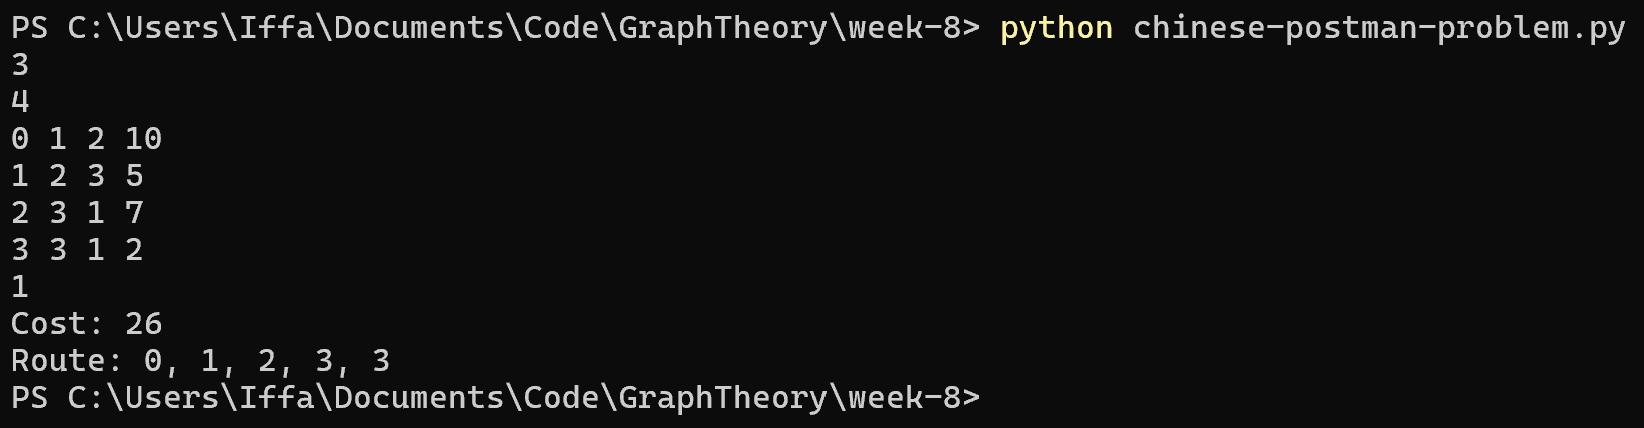
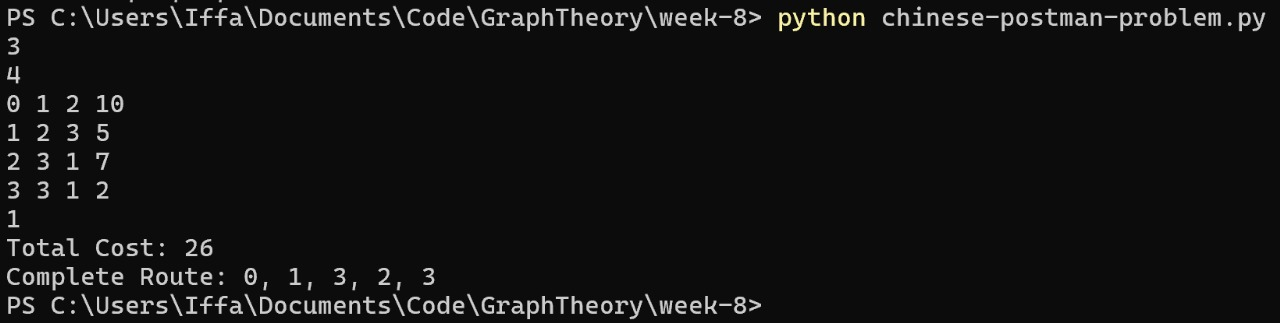
fix: cpp & docs: change algorithm in cpp

diff --git a/chinese-postman-problem.py b/chinese-postman-problem.py
@@ -1,22 +1,36 @@
-from collections import defaultdict, deque
-from itertools import combinations
-import sys
+from collections import defaultdict
+import heapq
 
 class ChinesePostman:
     def __init__(self):
-        self.graph = defaultdict(list)  
-        self.edges = []  
-        self.nodes = set()  
+        self.graph = defaultdict(list)
+        self.edges = {}  
+        self.nodes = set()
+
     def add_edge(self, edge_id, u, v, weight):
-        self.edges.append((edge_id, u, v, weight))
-        self.graph[u].append((v, weight, edge_id))
-        self.graph[v].append((u, weight, edge_id))
+        existing_edges = [(neighbor, w, eid) for neighbor, w, eid in self.graph[u] if neighbor == v and w > weight]
+        if existing_edges:
+            old_eid = existing_edges[0][2]
+            old_weight = existing_edges[0][1]
+            self.graph[u] = [(n, w, e) for n, w, e in self.graph[u] if e != old_eid]
+            self.graph[v] = [(n, w, e) for n, w, e in self.graph[v] if e != old_eid]
+            del self.edges[old_eid]
+            self.edges[edge_id] = (u, v, weight)
+            self.graph[u].append((v, weight, edge_id))
+            self.graph[v].append((u, weight, edge_id))
+            self.edges[old_eid] = (u, v, old_weight)
+            self.graph[u].append((v, old_weight, old_eid))
+            self.graph[v].append((u, old_weight, old_eid))
+        else:
+            self.edges[edge_id] = (u, v, weight)
+            self.graph[u].append((v, weight, edge_id))
+            self.graph[v].append((u, weight, edge_id))
         self.nodes.add(u)
         self.nodes.add(v)
-    
+
     def get_degrees(self):
         degrees = {}
-        for node in self.graph:
+        for node in self.nodes:
             degrees[node] = len(self.graph[node])
         return degrees
     
@@ -25,124 +39,83 @@ class ChinesePostman:
         odd_vertices = [node for node in self.nodes if degrees[node] % 2 == 1]
         return odd_vertices
     
-    def find_shortest_paths(self):
-        INF = float('inf')
-        nodes_list = list(self.nodes)
-        dist = defaultdict(lambda: defaultdict(lambda: INF))
-        next_node = defaultdict(lambda: defaultdict(lambda: None))
-        for node in nodes_list:
-            dist[node][node] = 0
-        for node in nodes_list:
-            for neighbor, weight, _ in self.graph[node]:
-                if weight < dist[node][neighbor]:
-                    dist[node][neighbor] = weight
-                    next_node[node][neighbor] = neighbor
-        for k in nodes_list:
-            for i in nodes_list:
-                for j in nodes_list:
-                    if dist[i][k] + dist[k][j] < dist[i][j]:
-                        dist[i][j] = dist[i][k] + dist[k][j]
-                        next_node[i][j] = next_node[i][k]
-        return dist, next_node
+    def dijkstra(self, start, end):
+        distances = {node: float('inf') for node in self.nodes}
+        distances[start] = 0
+        predecessors = {node: None for node in self.nodes}
+        edge_used = {}
+        pq = [(0, start)]
+        while pq:
+            current_dist, current = heapq.heappop(pq)
+            if current_dist > distances[current]:
+                continue
+            for neighbor, weight, edge_id in self.graph[current]:
+                new_dist = current_dist + weight
+                if new_dist < distances[neighbor]:
+                    distances[neighbor] = new_dist
+                    predecessors[neighbor] = current
+                    edge_used[neighbor] = edge_id
+                    heapq.heappush(pq, (new_dist, neighbor))
+        path = []
+        current = end
+        while predecessors[current] is not None:
+            path.append(edge_used[current])
+            current = predecessors[current]
+        return distances[end], path[::-1]
 
-    def find_min_weight_matching(self, odd_vertices, dist):
+    def find_min_weight_matching(self, odd_vertices):
         if len(odd_vertices) == 0:
             return []
-        min_cost = float('inf')
-        best_matching = None
-        def generate_pairings(vertices):
-            if len(vertices) == 0:
-                return [[]]
-            if len(vertices) == 2:
-                return [[(vertices[0], vertices[1])]]
-            first = vertices[0]
-            rest = vertices[1:]
-            pairings = []
-            for i, partner in enumerate(rest):
-                pair = (first, partner)
-                remaining = rest[:i] + rest[i+1:]
-                for sub_pairing in generate_pairings(remaining):
-                    pairings.append([pair] + sub_pairing)
-            return pairings
-        all_pairings = generate_pairings(odd_vertices)
-        for pairing in all_pairings:
-            cost = sum(dist[u][v] for u, v in pairing)
-            if cost < min_cost:
-                min_cost = cost
-                best_matching = pairing
-        return best_matching
-
-    def get_path_edges(self, u, v, next_node):
-        if next_node[u][v] is None:
-            return []
-        path = []
-        current = u
-        while current != v:
-            next_vertex = next_node[current][v]
-            best_eid = None
-            best_weight = float('inf')
-            for neighbor, weight, eid in self.graph[current]:
-                if neighbor == next_vertex and weight < best_weight:
-                    best_weight = weight
-                    best_eid = eid
-            path.append(best_eid)
-            current = next_vertex
-        return path
-
-    def build_adjacency_matrix(self):
-        adj_matrix = defaultdict(lambda: defaultdict(list))
-        for node in self.graph:
-            for neighbor, weight, eid in self.graph[node]:
-                adj_matrix[node][neighbor].append(eid)
-        for node in adj_matrix:
-            for neighbor in adj_matrix[node]:
-                adj_matrix[node][neighbor].sort()
-        return adj_matrix
+        pairings = {}
+        for i in range(len(odd_vertices)):
+            for j in range(i + 1, len(odd_vertices)):
+                u, v = odd_vertices[i], odd_vertices[j]
+                dist, path = self.dijkstra(u, v)
+                pairings[(u, v)] = (dist, path)
+        remaining = odd_vertices[:]
+        matching = []
+        total_cost = 0
+        matched_paths = []
+        while remaining:
+            current = remaining.pop(0)
+            best_match = min(remaining, key=lambda v: pairings.get((min(current, v), max(current, v)), (float('inf'), []))[0])
+            remaining.remove(best_match)
+            key = (min(current, best_match), max(current, best_match))
+            cost, path = pairings[key]
+            matching.append((current, best_match))
+            total_cost += cost
+            matched_paths.extend(path)
+        return matching, matched_paths, total_cost
 
     def find_eulerian_circuit(self, adj_matrix, start):
         circuit = []
         stack = [start]
-        current_path = []
+        visited_edges = set()
         while stack:
             v = stack[-1]
             found = False
             for u in sorted(adj_matrix[v].keys()):
-                if adj_matrix[v][u]:
-                    eid = adj_matrix[v][u].pop(0)
-                    if eid in adj_matrix[u][v]:
-                        adj_matrix[u][v].remove(eid)
-                    current_path.append(eid)
+                available = [eid for eid in adj_matrix[v][u] if eid not in visited_edges]
+                if available:
+                    best_eid = min(available, key=lambda e: self.edges[e][2])
+                    visited_edges.add(best_eid)
                     stack.append(u)
+                    circuit.append(best_eid)
                     found = True
                     break
             if not found:
-                if current_path:
-                    circuit.append(current_path.pop())
                 stack.pop()
         return circuit[::-1]
 
     def solve(self, start):
-        total_cost = sum(w for _, _, _, w in self.edges)
+        total_cost = sum(weight for _, _, weight in self.edges.values())
         odd_vertices = self.find_odd_vertices()
-        adj_matrix = self.build_adjacency_matrix()
         duplicate_cost = 0
+        matched_paths = []
         if len(odd_vertices) > 0:
-            dist, next_node = self.find_shortest_paths()
-            matching = self.find_min_weight_matching(odd_vertices, dist)
-            for u, v in matching:
-                duplicate_cost += dist[u][v]
-                path_edges = self.get_path_edges(u, v, next_node)
-                for eid in path_edges:
-                    for edge_id, node_u, node_v, weight in self.edges:
-                        if edge_id == eid:
-                            adj_matrix[node_u][node_v].append(eid)
-                            adj_matrix[node_v][node_u].append(eid)
-                            break
-            for node in adj_matrix:
-                for neighbor in adj_matrix[node]:
-                    adj_matrix[node][neighbor].sort()
-        circuit = self.find_eulerian_circuit(adj_matrix, start)
-        return total_cost + duplicate_cost, circuit
+            matching, matched_paths, duplicate_cost = self.find_min_weight_matching(odd_vertices)
+        route = list(self.edges.keys()) + matched_paths
+        return total_cost + duplicate_cost, route
 
 def main():
     n = int(input())
@@ -153,8 +126,8 @@ def main():
         cpp.add_edge(eid, u, v, w)
     start = int(input())
     cost, route = cpp.solve(start)
-    print(f"Cost: {cost}")
-    print(f"Route: {', '.join(map(str, route))}")
+    print(f"Total Cost: {cost}")
+    print(f"Complete Route: {', '.join(map(str, route))}")
 
 if __name__ == "__main__":
     main()

diff --git a/README.md b/README.md
@@ -82,7 +82,7 @@ Here is an example of a successful Knight's Tour on an 8x8 board:
 
 The **Chinese Postman Problem (CPP)** aims to find the shortest possible route that a postman must take to traverse every street (edge) at least once before returning to the start.
 
-The solution involves making the graph **Eulerian** (ensuring every vertex has an even degree) by duplicating the cheapest paths between vertices of odd degree.
+The solution implements an approximate way to solve the Chinese Postman Problem using **Djikstra's algorithm**, **Eulerian**, and **Greedy** approach. 
 
 ## How Our Code Works
 
@@ -93,10 +93,10 @@ Our code implements the full, exact algorithm for solving the CPP.
 
 **Process:**
 1.  **Identify Odd Vertices:** The code first finds all vertices with an odd degree.
-2.  **Calculate Shortest Paths:** It uses **Floyd-Warshall algorithm** to compute the shortest path between every pair of these odd-degree vertices.
-3.  **Find Minimum Weight Matching:** It generates all possible pairings of the odd vertices and calculates the total cost for each set of pairs. It then selects the pairing with the absolute minimum total cost. These are the paths that need to be traversed twice.
-4.  **Find Eulerian Tour:** After conceptually adding these new paths to the graph, all vertices now have an even degree. The code then uses a **stack-based algorithm (Hierholzer's)** to find the final Eulerian tour.
-5.  **Calculate Total Cost:** The final cost is the sum of all original edge weights plus the cost of the minimum weight matching.
+2.  **Calculate Shortest Paths:** It uses **Djikstra's algorithm** to compute the shortest path between every pair of these odd-degree vertices.
+3.  **Find Minimum Weight Matching:** It uses a **greedy approach** to pair up odd vertices - repeatedly selecting the closest unpaired vertices. This gives an approximate solution rather than the guaranteed optimal matching.
+4.  **Construct Route:** The route is constructed by combining all original edges with the edges from the matched paths.
+5.  **Calculate Total Cost:** The final cost is the sum of all original edge weights plus the cost of the greedy matching.
 
 **Output:**
 - The program outputs the **minimum total cost** for the postman's route and the **sequence of edge IDs** in that route.
